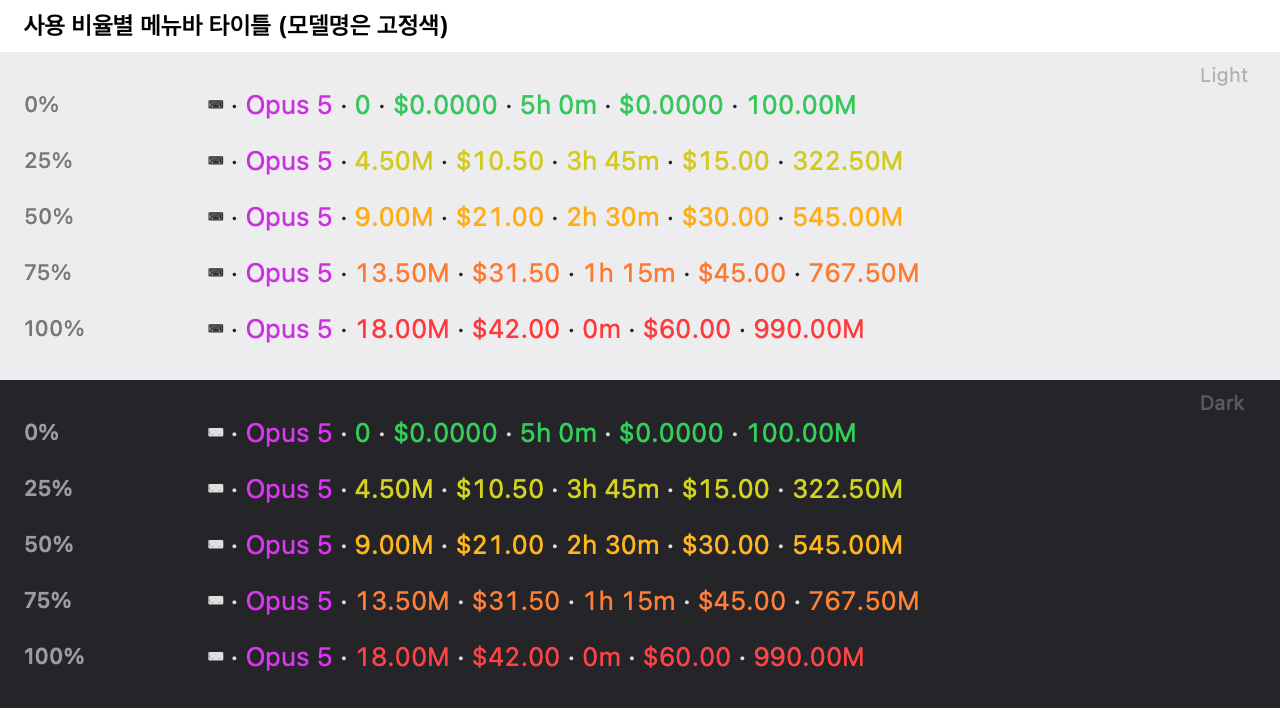
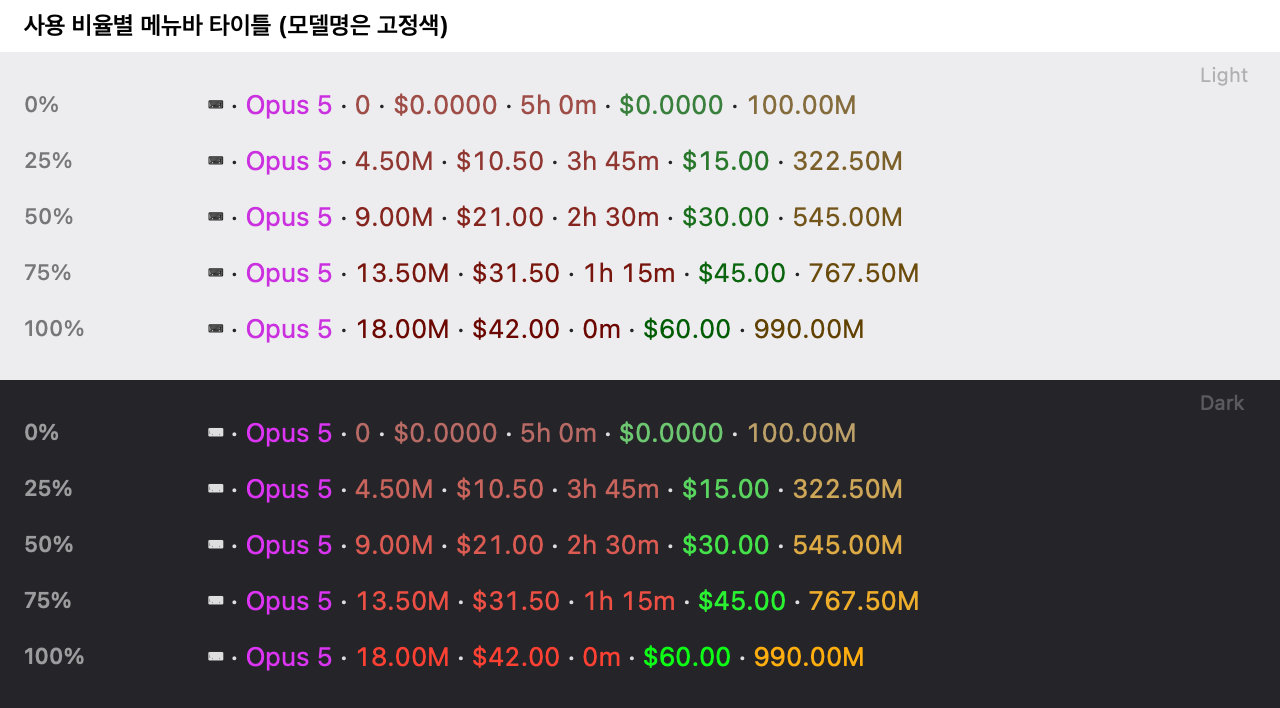
Give each kind of number its own color family (#15)
One green-to-red ramp served every field, so the color said only "how
full" and never "of what". Worse, it said the wrong thing twice: today's
tokens are measured against the personal best day and cumulative tokens
against the next milestone, so both turned alarm-red exactly when the
user set a record or approached a milestone.

Split the fields into three families by the question they answer, fix
the hue inside each family, and let the ratio move only saturation and
brightness:

- limit (block tokens / output tokens / cost / time remaining): red 4°.
  The four share one family because they share one ratio; different hues
  for the same number would be noise.
- today (today's tokens / cost): green 122°.
- cumulative (cumulative tokens): amber 40°.

The ramps are measured, not guessed. A self-test walks every family in
both appearances and asserts at least 3.5:1 against the menu bar
backgrounds (worst measured: 3.95:1). The old palette's systemYellow
fell to 1.4:1 on a light bar. Minimum saturation is pinned at 0.45 too,
below which all three families converge on the same grey-brown and the
split stops meaning anything.

Two constraints worth keeping:

- limit's dark ramp caps saturation at 0.80. Fully saturated red carries
  a luminance coefficient of 0.2126 and cannot clear 4:1 on a near-black
  bar, which is why macOS systemRed is (1.0, 0.27, 0.23) in dark mode.
- HSB is converted to sRGB by hand. NSColor(hue:) builds in the
[…]

diff --git a/ClaudeMonitor.swift b/ClaudeMonitor.swift
@@ -2326,38 +2326,96 @@ func titleIconPrefix() -> String { "\(titleIconGlyph) " }
 
 // MARK: - Title Dynamic Colors (수치/비율 → 색)
 
-// 정지점은 MoodTier 신호등 배색과 같은 system 색 — 무드 아이콘과 타이틀이 한 색 언어를 쓴다.
-let usageColorStops: [NSColor] = [.systemGreen, .systemYellow, .systemOrange, .systemRed]
+// 항목 계열 — 색상각은 값과 무관하게 **고정**이고, 비율은 채도·명도만 움직인다. 그래서 같은 항목은
+// 값이 얼마든 늘 같은 색으로 읽히고, 진해지는 정도만 "얼마나 찼나"를 말한다.
+//
+// 계열을 나누는 기준은 "이 숫자가 어떤 질문에 답하는가"다. 값이 높을수록 나쁜 것은 limit뿐이며,
+// today(개인 최고 대비)·cumulative(마일스톤 진행률)는 높은 값이 경고가 아니므로 빨강을 쓰지 않는다.
+enum TitleColorFamily: String, CaseIterable {
+    case limit, today, cumulative
 
-// 순수 함수: ratio가 떨어지는 정지점 구간(lower 인덱스)과 구간 내 보간 비율. NaN/무한대는 0으로 본다.
-func usageColorSegment(_ ratio: Double, stopCount: Int = usageColorStops.count) -> (index: Int, fraction: Double) {
-    let r = ratio.isFinite ? min(max(ratio, 0), 1) : 0
-    let segments = stopCount - 1
-    let pos = r * Double(segments)
-    let idx = min(Int(pos), segments - 1)
-    return (idx, pos - Double(idx))
-}
-
-// blended(withFraction:of:)는 호출 시점 외관으로 굳은 정적 색을 돌려주므로 dynamicProvider로 감싼다 —
-// 그러지 않으면 다크/라이트 전환 후 다음 refresh까지 반대 테마용 색이 남는다.
-func usageColor(ratio: Double) -> NSColor {
-    let seg = usageColorSegment(ratio)
-    let from = usageColorStops[seg.index], to = usageColorStops[seg.index + 1]
-    return NSColor(name: nil) { appearance in
-        var result = from
-        appearance.performAsCurrentDrawingAppearance {
-            if let a = from.usingColorSpace(.sRGB), let b = to.usingColorSpace(.sRGB),
-               let mixed = a.blended(withFraction: CGFloat(seg.fraction), of: b) {
-                result = mixed
-            }
+    // 모델 고정색(민트 173°~자홍 313°)과 겹치지 않는 따뜻한 대역에서만 고른다 — 셀프테스트가 간격을 지킨다.
+    var hue: CGFloat {
+        switch self {
+        case .limit:      return 4 / 360     // 빨강 — 한계에 얼마나 가까운가
+        case .cumulative: return 40 / 360    // 호박 — 다음 마일스톤까지
+        case .today:      return 122 / 360   // 초록 — 개인 최고 기록 대비
         }
-        return result
+    }
+
+    // 비율 0→1 구간의 (채도 시작·끝, 명도 시작·끝). 라이트 메뉴바는 배경이 밝아 진해질수록 명도를
+    // **낮춰야** 진해 보이고, 다크는 반대로 올려야 한다. 최저 채도를 0.45 아래로 내리지 않는 이유는
+    // 그보다 탁해지면 세 계열이 전부 회갈색으로 수렴해 "어느 항목인가"가 사라지기 때문이다.
+    //
+    // limit의 다크 채도 상한만 0.80이다 — 완전 채도 빨강은 휘도가 낮아 어두운 배경에서 읽히지 않으므로,
+    // 채도를 낮춰 초록·파랑 성분을 띄우는 쪽이 오히려 밝다(명도를 올려서는 해결되지 않는다).
+    func ramp(isDark: Bool) -> (s0: CGFloat, s1: CGFloat, b0: CGFloat, b1: CGFloat) {
+        switch (self, isDark) {
+        case (.limit, false):      return (0.55, 1.00, 0.62, 0.42)
+        case (.limit, true):       return (0.45, 0.80, 0.72, 1.00)
+        case (.cumulative, false): return (0.55, 1.00, 0.52, 0.38)
+        case (.cumulative, true):  return (0.45, 0.95, 0.74, 1.00)
+        case (.today, false):      return (0.55, 1.00, 0.50, 0.36)
+        case (.today, true):       return (0.45, 0.95, 0.78, 1.00)
+        }
     }
 }
 
-// 모델 family 고정색 — usageColorStops가 덮는 빨강~초록(색상각 0°~120°) 바깥에서만 고른다.
-// 그 범위 안의 색을 쓰면 모델명이 "사용량 경고"로 오독된다. 새 family는 MODEL_FAMILIES와 함께 여기에도 추가하고,
-// 기존 family와 색상각이 18° 이상 떨어져야 한다(셀프테스트 단정).
+// 순수 함수 — 동적 NSColor는 동등 비교가 안 되므로 성분을 돌려주는 이쪽을 테스트한다.
+// NaN/무한대는 0으로 본다(크래시·검정색 렌더 방지).
+func usageColorComponents(ratio: Double, family: TitleColorFamily, isDark: Bool)
+        -> (hue: CGFloat, saturation: CGFloat, brightness: CGFloat) {
+    let r = CGFloat(ratio.isFinite ? min(max(ratio, 0), 1) : 0)
+    let ramp = family.ramp(isDark: isDark)
+    return (family.hue,
+            ramp.s0 + (ramp.s1 - ramp.s0) * r,
+            ramp.b0 + (ramp.b1 - ramp.b0) * r)
+}
+
+// HSB → sRGB를 직접 계산한다. NSColor(hue:...)는 **보정(calibrated) 색공간**이라 같은 성분이라도
+// sRGB와 다른 픽셀이 나오고, 그러면 램프 상수를 고를 때 잰 명암비와 실제 화면이 어긋난다.
+func hsbToSRGB(hue: CGFloat, saturation: CGFloat, brightness: CGFloat) -> (r: CGFloat, g: CGFloat, b: CGFloat) {
+    let h = (hue - hue.rounded(.down)) * 6
+    let sector = Int(h)
+    let f = h - CGFloat(sector)
+    let p = brightness * (1 - saturation)
+    let q = brightness * (1 - saturation * f)
+    let t = brightness * (1 - saturation * (1 - f))
+    switch sector {
+    case 0:  return (brightness, t, p)
+    case 1:  return (q, brightness, p)
+    case 2:  return (p, brightness, t)
+    case 3:  return (p, q, brightness)
+    case 4:  return (t, p, brightness)
+    default: return (brightness, p, q)
+    }
+}
+
+// 외관마다 램프가 다르므로 dynamicProvider로 감싼다 — 그러지 않으면 다크/라이트 전환 후 다음
+// refresh까지 반대 테마용 색이 남는다.
+func usageColor(ratio: Double, family: TitleColorFamily) -> NSColor {
+    NSColor(name: nil) { appearance in
+        let isDark = appearance.bestMatch(from: [.aqua, .darkAqua]) == .darkAqua
+        let c = usageColorComponents(ratio: ratio, family: family, isDark: isDark)
+        let rgb = hsbToSRGB(hue: c.hue, saturation: c.saturation, brightness: c.brightness)
+        return NSColor(srgbRed: rgb.r, green: rgb.g, blue: rgb.b, alpha: 1)
+    }
+}
+
+// 필드 → 계열. 블록 토큰·출력 토큰·비용·남은 시간은 전부 "이 블록을 얼마나 썼나"라 한 계열이다 —
+// 같은 비율을 쓰는 숫자들에 서로 다른 색을 주면 정보가 아니라 소음이 된다. nil은 동적 색 대상이 아니라는 뜻.
+func titleFieldFamily(_ field: TitleField) -> TitleColorFamily? {
+    switch field {
+    case .outputTokens, .totalTokens, .cost, .remainingTime: return .limit
+    case .todayTokens, .todayCost:                           return .today
+    case .cumulativeTokens:                                  return .cumulative
+    case .model:                                             return nil
+    }
+}
+
+// 모델 family 고정색 — 값 계열(TitleColorFamily, 4°~122°) 바깥의 차가운 대역에서만 고른다.
+// 그 대역 안의 색을 쓰면 모델명이 사용량 수치로 오독된다. 새 family는 MODEL_FAMILIES와 함께 여기에도
+// 추가하고, 기존 family와 18° 이상·값 계열과 40° 이상 떨어져야 한다(셀프테스트 단정).
 func modelFamilyColor(_ family: String) -> NSColor? {
     switch family {
     case "opus":   return .systemPurple
@@ -2409,14 +2467,14 @@ func titleFieldRatio(_ field: TitleField, _ ctx: TitleContext) -> Double? {
 enum TitlePartColor: Equatable {
     case label
     case fixed(TitleFieldColor)
-    case usage(Double)
+    case usage(family: TitleColorFamily, ratio: Double)
     case model(family: String)
 
     var nsColor: NSColor {
         switch self {
         case .label:             return .labelColor
         case .fixed(let c):      return c.nsColor ?? .labelColor
-        case .usage(let r):      return usageColor(ratio: r)
+        case .usage(let f, let r): return usageColor(ratio: r, family: f)
         case .model(let family): return modelFamilyColor(family) ?? .labelColor
         }
     }
@@ -2433,7 +2491,9 @@ func buildTitleParts(_ ctx: TitleContext) -> [TitlePart] {
         parts.append(TitlePart(text: titleIconGlyph, color: .label))
     }
     for field in TitleSettings.enabledFieldsInOrder() {
-        let color: TitlePartColor = titleFieldRatio(field, ctx).map { .usage($0) } ?? .label
+        // 계열과 비율이 **둘 다** 있어야 동적 색이 된다 — 모델명(계열 없음)과 근거 없는 비율(nil)은 기본색.
+        let color: TitlePartColor = titleFieldFamily(field)
+            .flatMap { family in titleFieldRatio(field, ctx).map { .usage(family: family, ratio: $0) } } ?? .label
         switch field {
         case .outputTokens:     parts.append(TitlePart(text: formatTokens(ctx.outputTokens), color: color))
         case .totalTokens:      parts.append(TitlePart(text: formatTokens(ctx.totalTokens), color: color))
@@ -7047,36 +7107,82 @@ func runSelfTests() -> Never {
         check(false, "moodGlyphTheme: 전용 UserDefaults suite 생성 성공해야 함")
     }
 
-    // 동적 색상 — 보간 구간 산정
-    func segEq(_ r: Double, _ i: Int, _ f: Double) -> Bool {
-        let seg = usageColorSegment(r); return seg.index == i && abs(seg.fraction - f) < 1e-9
-    }
-    check(segEq(0, 0, 0), "usageColorSegment: 0 → 첫 정지점(초록)")
-    check(segEq(1, 2, 1), "usageColorSegment: 1 → 마지막 구간 끝(빨강)")
-    check(segEq(0.5, 1, 0.5), "usageColorSegment: 0.5 → 노랑~주황 구간 중간")
-    check(segEq(1.7, 2, 1) && segEq(-0.3, 0, 0), "usageColorSegment: 범위 밖 비율은 0~1로 자른다")
-    check(segEq(.nan, 0, 0) && segEq(.infinity, 0, 0), "usageColorSegment: NaN/무한대는 0으로 본다(크래시 방지)")
-    if let aqua = NSAppearance(named: .aqua) {
-        var ok = false
-        aqua.performAsCurrentDrawingAppearance {
-            if let a = usageColor(ratio: 0).usingColorSpace(.sRGB), let g = NSColor.systemGreen.usingColorSpace(.sRGB),
-               let z = usageColor(ratio: 1).usingColorSpace(.sRGB), let r = NSColor.systemRed.usingColorSpace(.sRGB) {
-                ok = abs(a.redComponent - g.redComponent) < 0.01 && abs(a.greenComponent - g.greenComponent) < 0.01
-                    && abs(z.redComponent - r.redComponent) < 0.01 && abs(z.greenComponent - r.greenComponent) < 0.01
-            }
+    // 동적 색상 — 계열 안에서 색상각은 고정, 채도·명도만 이동
+    for family in TitleColorFamily.allCases {
+        for isDark in [false, true] {
+            let lo = usageColorComponents(ratio: 0, family: family, isDark: isDark)
+            let mid = usageColorComponents(ratio: 0.5, family: family, isDark: isDark)
+            let hi = usageColorComponents(ratio: 1, family: family, isDark: isDark)
+            let mode = isDark ? "다크" : "라이트"
+            check(lo.hue == family.hue && mid.hue == family.hue && hi.hue == family.hue,
+                  "usageColorComponents: \(family.rawValue)/\(mode) 색상각은 비율과 무관하게 고정")
+            check(lo.saturation < hi.saturation,
+                  "usageColorComponents: \(family.rawValue)/\(mode) 비율이 오르면 채도가 오른다(탁함 → 선명)")
+            check(abs(mid.saturation - (lo.saturation + hi.saturation) / 2) < 1e-9,
+                  "usageColorComponents: \(family.rawValue)/\(mode) 채도는 선형 보간")
+            check(lo.saturation >= 0.45,
+                  "usageColorComponents: \(family.rawValue)/\(mode) 0%에서도 계열이 읽히는 최저 채도 유지")
+            // 라이트는 진해질수록 어두워야, 다크는 밝아야 "진해진다"로 읽힌다.
+            check(isDark ? (hi.brightness > lo.brightness) : (hi.brightness < lo.brightness),
+                  "usageColorComponents: \(family.rawValue)/\(mode) 명도 방향이 배경에 맞다")
         }
-        check(ok, "usageColor: 끝점은 systemGreen/systemRed로 해석된다")
+    }
+    check(usageColorComponents(ratio: 1.7, family: .limit, isDark: false).saturation
+          == usageColorComponents(ratio: 1, family: .limit, isDark: false).saturation,
+          "usageColorComponents: 범위 밖 비율은 0~1로 자른다")
+    check(usageColorComponents(ratio: .nan, family: .limit, isDark: false).saturation
+          == usageColorComponents(ratio: 0, family: .limit, isDark: false).saturation,
+          "usageColorComponents: NaN은 0으로 본다(크래시·검정 렌더 방지)")
+
+    // 명암비 — 배경값은 라이트/다크 메뉴바 실측 근사치다.
+    func srgbLuminance(_ rgb: (r: CGFloat, g: CGFloat, b: CGFloat)) -> CGFloat {
+        func lin(_ c: CGFloat) -> CGFloat { c <= 0.04045 ? c / 12.92 : pow((c + 0.055) / 1.055, 2.4) }
+        return 0.2126 * lin(rgb.r) + 0.7152 * lin(rgb.g) + 0.0722 * lin(rgb.b)
+    }
+    func contrastRatio(_ a: (r: CGFloat, g: CGFloat, b: CGFloat), _ b: (r: CGFloat, g: CGFloat, b: CGFloat)) -> CGFloat {
+        let la = srgbLuminance(a), lb = srgbLuminance(b)
+        return (max(la, lb) + 0.05) / (min(la, lb) + 0.05)
+    }
+    let lightBar: (r: CGFloat, g: CGFloat, b: CGFloat) = (0.925, 0.925, 0.937)
+    let darkBar: (r: CGFloat, g: CGFloat, b: CGFloat) = (0.137, 0.137, 0.157)
+    let contrastFloor: CGFloat = 3.5
+    for family in TitleColorFamily.allCases {
+        for isDark in [false, true] {
+            var worst: CGFloat = .greatestFiniteMagnitude
+            for step in 0...20 {
+                let c = usageColorComponents(ratio: Double(step) / 20, family: family, isDark: isDark)
+                let rgb = hsbToSRGB(hue: c.hue, saturation: c.saturation, brightness: c.brightness)
+                worst = min(worst, contrastRatio(rgb, isDark ? darkBar : lightBar))
+            }
+            check(worst >= contrastFloor,
+                  "명암비: \(family.rawValue)/\(isDark ? "다크" : "라이트") 전 구간 \(contrastFloor):1 이상 (실측 \(String(format: "%.2f", Double(worst))):1)")
+        }
     }
 
-    // 모델 고정색 — 모든 family에 색이 있고, 사용량 그라디언트(빨강~초록, 색상각 0°~120°)와 겹치지 않는다
+    // 필드 → 계열 배선. 같은 비율(blockRatio)을 쓰는 네 필드가 한 계열이어야 색이 갈리지 않는다.
+    check(titleFieldFamily(.totalTokens) == .limit && titleFieldFamily(.outputTokens) == .limit
+          && titleFieldFamily(.cost) == .limit && titleFieldFamily(.remainingTime) == .limit,
+          "titleFieldFamily: 블록 계열 네 필드는 모두 limit")
+    check(titleFieldFamily(.todayTokens) == .today && titleFieldFamily(.todayCost) == .today,
+          "titleFieldFamily: 오늘 두 필드는 today — 최고 기록 경신이 경고로 보이면 안 된다")
+    check(titleFieldFamily(.cumulativeTokens) == .cumulative, "titleFieldFamily: 누적 토큰은 cumulative")
+    check(titleFieldFamily(.model) == nil, "titleFieldFamily: 모델명은 동적 색 대상이 아니다")
+
+    // 계열끼리, 그리고 계열과 모델 고정색이 충분히 떨어져 있는지
+    let familyHueDegrees = TitleColorFamily.allCases.map { Double($0.hue) * 360 }.sorted()
+    let familyGap = zip(familyHueDegrees, familyHueDegrees.dropFirst()).map { $1 - $0 }.min() ?? 360
+    check(familyGap >= 30, "TitleColorFamily: 계열끼리 색상각 30° 이상 (최소 \(Int(familyGap))°)")
+
+    // 모델 고정색 — 모든 family에 색이 있고, 값 계열(4°~122°)과 겹치지 않는다
     var familyHues: [CGFloat] = []
     for family in MODEL_FAMILIES {
         guard let c = modelFamilyColor(family)?.usingColorSpace(.sRGB) else {
             check(false, "modelFamilyColor: \(family)에 고정색이 있어야 함"); continue
         }
         familyHues.append(c.hueComponent)
-        check(c.hueComponent > 0.40 && c.hueComponent < 0.90,
-              "modelFamilyColor: \(family) 색상각(\(Int(c.hueComponent * 360))°)이 사용량 그라디언트 범위 밖")
+        let gapToFamilies = familyHueDegrees.map { abs(Double(c.hueComponent) * 360 - $0) }.min() ?? 360
+        check(gapToFamilies >= 40,
+              "modelFamilyColor: \(family) 색상각(\(Int(c.hueComponent * 360))°)이 값 계열과 40° 이상 떨어짐 (실측 \(Int(gapToFamilies))°)")
     }
     let sortedHues = familyHues.sorted()
     let minHueGap = zip(sortedHues, sortedHues.dropFirst()).map { $1 - $0 }.min() ?? 1
@@ -7146,9 +7252,9 @@ func runSelfTests() -> Never {
     let dynCtx = TitleContext(outputTokens: 12_300, totalTokens: 50_000, cost: 4.2,
                               remainingText: nil, model: "claude-sonnet-4-5", blockRatio: 0.65)
     let dynParts = buildTitleParts(dynCtx)
-    check(dynParts.first(where: { $0.text == "$4.20" })?.color == .usage(0.65)
-          && dynParts.first(where: { $0.text == "12.3K" })?.color == .usage(0.65),
-          "buildTitleParts: 블록 계열 필드는 blockRatio로 동적 색")
+    check(dynParts.first(where: { $0.text == "$4.20" })?.color == .usage(family: .limit, ratio: 0.65)
+          && dynParts.first(where: { $0.text == "12.3K" })?.color == .usage(family: .limit, ratio: 0.65),
+          "buildTitleParts: 블록 계열 필드는 limit 계열 + blockRatio")
     check(dynParts.first(where: { $0.text == "Sonnet 4.5" })?.color == .model(family: "sonnet"),
           "buildTitleParts: 비율이 있어도 모델명은 고정색 유지")
     if let so = savedOrder { UserDefaults.standard.set(so, forKey: "titleFieldsOrder") }

diff --git a/CLAUDE.md b/CLAUDE.md
@@ -35,7 +35,16 @@ tail -f ~/.cc-menutor.log   # LaunchAgent 실행 시 stdout/stderr 로그
 - **새 모델 추가 시**: `VERSIONED_PRICING`에 `ModelVersionKey(family:major:minor:)` 항목을 추가하면 비용과 표시명(`shortModelName()`)이 **함께** 따라온다 — 둘 다 `parseModelVersion()` 결과를 공유하기 때문이다. 새 family(예: 미래의 `fable` 계열)라면 `MODEL_FAMILIES`와 `FAMILY_PRICING`, 그리고 메뉴바 모델명 고정색 `modelFamilyColor()`에도 추가한다(셀프테스트가 `MODEL_FAMILIES` 전부에 색이 있는지 단정한다). 캐시 단가는 input에서 공식 배수로 파생되므로 input/output만 넣으면 된다.
   - **순서 의존이 없다**(딕셔너리 조회). 예전엔 `[(pattern, pricing)]` 배열을 `contains`로 훑어서 "구체적인 패턴을 앞에" 규칙을 지켜야 했는데, 실제 모델 ID가 신형(`claude-haiku-4-5`)과 구형(`claude-3-5-haiku`) 두 표기를 오간다는 걸 놓쳐 `haiku-3-5`/`sonnet-3-5`/`sonnet-3-7` 패턴이 **어디에도 매칭되지 않는 죽은 코드**가 됐고, 모든 Haiku가 포괄 패턴으로 떨어져 Haiku 4.5가 4배 과소 청구됐다(게다가 `matched=true`라 경고도 안 떴다). `FAMILY_PRICING`이 은퇴 티어를 가리켜 Opus 5는 3배 과대 추정됐다. **family 폴백은 반드시 현행 티어를 가리켜야 한다.**
   - 회귀 가드: 셀프테스트의 `officialPrices` 표가 실제 모델 ID → 공식 단가를 직접 대조한다. 단가를 바꿀 땐 이 표도 같이 고친다.
-- **메뉴바 동적 색상(`titleFieldRatio`/`usageColor`/`modelFamilyColor`)**: 항목 색은 사용자 설정이 아니라 `titleFieldRatio(field, ctx)`가 고른 비율(0~1)로 정해진다(수동 색 지정 기능과 `titleColor_*` 키는 이 기능으로 대체돼 제거됐다). 블록 계열 필드의 비율은 **`blockUsageRatio()` 하나**(서버 5h% ▸ 예산 비율 ▸ 경과율)를 두 타이틀 경로가 공유한다 — 리셋 앵커에서 겪은 "경로별로 따로 계산하다 어긋남"을 반복하지 않기 위함이다. `TitlePart.color`는 `NSColor`가 아니라 **출처(`TitlePartColor.usage(ratio)`/`.model(family:)`)**를 담고 렌더링 시점에만 해석한다 — 동적 `NSColor`는 동등 비교가 안 돼 테스트할 수 없고, 보간 결과는 `dynamicProvider`로 감싸야 다크/라이트 전환 직후에도 맞는 색이 나온다. 모델 고정색은 그라디언트(색상각 0°~120°) 밖에서 서로 18° 이상 떨어져야 하며 셀프테스트가 이를 단정한다. 예산 경고(`renderTitle`의 ⚠ 오버레이)는 여전히 동적 색보다 우선한다.
+- **메뉴바 동적 색상(`TitleColorFamily`/`titleFieldRatio`/`usageColor`)**: 항목 색은 사용자 설정이 아니라 **계열(색상각) + 비율(채도·명도)**로 정해진다(수동 색 지정 기능과 `titleColor_*` 키는 이 기능으로 대체돼 제거됐다). **색상각은 계열 안에서 고정이고 비율은 채도·명도만 움직인다** — 값이 변해도 "어느 항목인가"가 흔들리지 않게 하기 위해서다.
+  - **계열은 "이 숫자가 어떤 질문에 답하는가"로 나눈다**: `limit`(블록 토큰·출력·비용·남은 시간, 빨강 4°), `today`(오늘 토큰·비용, 초록 122°), `cumulative`(누적 토큰, 호박 40°). 처음엔 전 항목이 초록→빨강 신호등 하나를 공유했는데, 그러면 **최고 기록을 세운 날의 「오늘 비용」과 마일스톤 직전의 「누적 토큰」이 빨강(위험)으로 렌더돼** 좋은 일이 경고로 보였다. 높을수록 나쁜 값은 `limit`뿐이다.
+  - 블록 계열 네 필드가 한 계열인 것은 **넷이 같은 비율(`blockRatio`)을 쓰기 때문**이다. 같은 숫자에 서로 다른 색을 주면 정보가 아니라 소음이 된다.
+  - **램프 상수는 감으로 고른 값이 아니라 명암비를 재서 고른 값이다.** 셀프테스트가 라이트(#ECECEC)·다크(#1E1E1E) 메뉴바 배경 대비 **전 구간 3.5:1 이상**을 단정한다(실측 최저 3.95:1). 예전 팔레트의 `systemYellow`는 라이트에서 1.4:1까지 떨어져 사실상 안 보였다. 최저 채도를 0.45 아래로 내리지 않는 것도 단정으로 고정돼 있다 — 그보다 탁해지면 세 계열이 전부 회갈색으로 수렴해 계열 구분이 사라진다.
+  - **`limit`의 다크 채도 상한만 0.80으로 낮다.** 완전 채도 빨강은 휘도 계수가 0.2126뿐이라 어두운 배경에서 명암비가 4:1을 못 넘는다 — macOS `systemRed` 다크가 순수 빨강이 아니라 `(1.0, 0.27, 0.23)`인 것과 같은 이유다. 채도를 낮춰 초록·파랑 성분을 띄워야 오히려 읽힌다.
+  - **HSB → RGB 변환을 직접 한다(`hsbToSRGB`).** `NSColor(hue:...)`는 보정(calibrated) 색공간이라 같은 성분이라도 sRGB와 다른 픽셀이 나오고, 그러면 램프를 고를 때 잰 명암비와 실제 화면이 어긋난다.
+  - `TitlePart.color`는 `NSColor`가 아니라 **출처(`TitlePartColor.usage(family:ratio:)`/`.model(family:)`)**를 담고 렌더링 시점에만 해석한다 — 동적 `NSColor`는 동등 비교가 안 돼 테스트할 수 없고, 보간 결과는 `dynamicProvider`로 감싸야 다크/라이트 전환 직후에도 맞는 색이 나온다. 그래서 순수 함수 `usageColorComponents(ratio:family:isDark:)`가 테스트 대상이다.
+  - 모델 고정색은 값 계열(4°~122°) 바깥의 차가운 대역에서 고르며, 값 계열과 40° 이상·모델끼리 18° 이상 떨어져야 한다(셀프테스트 단정).
+  - 예산 경고(`renderTitle`의 ⚠ 오버레이)는 여전히 동적 색보다 우선한다. **무드 아이콘(`flameColors`)은 아직 5단계 신호등 배색이라 블록 숫자와 색 언어가 다르다** — 의도적으로 남겨 둔 상태이며 이슈 #14에서 다룬다.
+
 - `PRICING`/비용은 **추정값**이며 Pro/Max 플랜의 실제 청구액이 아니다. 비용 로직을 바꿔도 이 전제를 유지한다.
 - **비용 소스는 2경로다**: 1차는 `stats-cache.json`(CLI 실측 `costUSD`), 폴백은 JSONL+`PRICING`(추정). 두 숫자는 분기할 수 있으며, 폴백 진입 시 메뉴 상단에 "추정 모드" 헤더로 사용자에게 고지한다(`buildMenuFromEntries`). 단가 로직 수정은 폴백에만 영향, 1차 경로는 CLI가 계산한다.
 - **타이틀의 "현재 모델"은 "최근 사용 모델"이 아니라 "(현재 5시간 블록 내) 토큰 수 기준 최다 사용 모델"이다**: stats-cache의 `models` 배열 순서는 신뢰하지 않는다(CLI가 모델을 처음 발견한 순서일 뿐 사용량 순이 아니다). 순수 함수 `mostUsedModel(in:)`이 블록 구간 엔트리를 **원본** 모델 문자열 기준으로 그룹핑해 토큰 합(input+output+cacheRead+cacheWrite)이 가장 큰 모델을 고르며, 동점이면 모델 문자열 알파벳순으로 결정론적으로 선택한다. `updateStatusBarTitle(fromCache:)`/`updateStatusBarTitleFromEntries()` 둘 다 이 함수를 공유한다. 전자는 `cachedAll`(JSONL)을 블록 구간(`b.startTime`~`b.endTime`)으로 필터링해 넘기고, 타임스탬프 파싱 실패 등 예외 상황에서만 `b.models.last`로 폴백한다. `mostUsedModel()`은 (`UsageStats.modelBreakdown`과 달리) `shortModelName()`으로 미리 축약하지 않은 원본 문자열을 반환하므로, `TitleContext.model`의 "축약 전 원본 문자열" 계약이 유지되고 `shortModelName()` 적용은 항상 렌더링 시점(`buildTitleParts()`) 한 번으로 끝난다(이중 축약 방지).

diff --git a/README.md b/README.md
@@ -46,7 +46,7 @@ curl -fsSL https://raw.githubusercontent.com/Ahngbeom/cc-menutor/main/scripts/in
 - **한도 소진 추이** — 서버 실측 사용률을 주 단위로 적립해 플랜 업/다운그레이드 판단 근거를 제공([아래](#한도-소진-추이) 참고)
 - **전체 누적** — 기록된 전체 사용량
 - **30초 자동 갱신** — 백그라운드 처리, 파일 변경 시에만 재읽기
-- **메뉴바 동적 색상** — 각 항목의 색이 사용 비율에 따라 초록→노랑→주황→빨강으로 자동 전환, 모델명은 모델별 고정색([아래](#메뉴바-동적-색상) 참고)
+- **메뉴바 동적 색상** — 항목 계열별(한계·오늘·누적) 색상 안에서 사용 비율만큼 색이 짙어짐, 모델명은 모델별 고정색([아래](#메뉴바-동적-색상) 참고)
 - **메뉴바 커스터마이징** — 표시 항목·순서·구분자·아이콘·자동 갱신 주기·표시 통화를 메뉴에서 바로 변경(재빌드 불필요, [커스터마이징](#커스터마이징) 참고)
 - **원화 환산** — 표시 통화를 「원화」로 바꾸면 실시간 환율로 환산한 금액을 표시([표시 통화](#표시-통화-원화-환산) 참고)
 - **재미 모드(옵트인, 기본 전부 꺼짐)** — 무드 아이콘 / 연속 사용 기록 / 마일스톤 축하, [아래](#재미-모드) 참고
@@ -354,15 +354,18 @@ tail -f ~/.cc-menutor.log
 
 ### 메뉴바 동적 색상
 
-메뉴바의 각 항목은 직접 고른 색 대신 **수치가 얼마나 찼는지**에 따라 색이 연속으로 바뀝니다
-(0% 초록 → 노랑 → 주황 → 100% 빨강). 항목마다 "얼마나 찼는지"의 기준은 다릅니다:
+메뉴바의 각 항목은 직접 고른 색 대신 **수치가 얼마나 찼는지**에 따라 색이 바뀝니다.
+항목은 **무엇을 묻는 숫자인지**에 따라 세 계열로 나뉘고, 계열 안에서는 색상이 고정된 채
+**탁함 → 선명**으로만 짙어집니다. 그래서 같은 항목은 값이 얼마든 늘 같은 색으로 읽힙니다.
 
-| 항목 | 기준 |
-|---|---|
-| 블록 토큰 · 블록 출력 토큰 · 블록 비용 | 서버 실측 5시간 사용률(statusLine 연동 시) → 예산 대비 비율(`CLAUDE_MONITOR_TOKEN_BUDGET`/`COST_BUDGET` 설정 시) → 5시간 블록 경과율 |
-| 남은 시간 | 5시간 블록 경과율 |
-| 오늘 토큰 · 오늘 비용 | 개인 최고 일일 기록 대비 (기록이 없으면 기본색) |
-| 누적 토큰 | 다음 마일스톤(1M·10M·100M·1B, 이후 ×10)까지 진행률 |
+| 계열 | 항목 | 비율 기준 |
+|---|---|---|
+| 🔴 빨강 | 블록 토큰 · 블록 출력 토큰 · 블록 비용 · 남은 시간 | 서버 실측 5시간 사용률(statusLine 연동 시) → 예산 대비 비율(`CLAUDE_MONITOR_TOKEN_BUDGET`/`COST_BUDGET` 설정 시) → 5시간 블록 경과율 |
+| 🟢 초록 | 오늘 토큰 · 오늘 비용 | 개인 최고 일일 기록 대비 (기록이 없으면 기본색) |
+| 🟡 호박 | 누적 토큰 | 다음 마일스톤(1M·10M·100M·1B, 이후 ×10)까지 진행률 |
+
+빨강 계열만 "한계에 가까워진다"는 뜻입니다. **오늘과 누적은 값이 높다고 나쁜 것이 아니라서**
+(최고 기록 경신, 마일스톤 도달) 경고로 읽히지 않는 계열을 씁니다.
 
 <img src="docs/images/dynamic-color-steps.png" alt="사용 비율 0·25·50·75·100%에서의 메뉴바 타이틀 색 (라이트/다크)" width="640">
 
@@ -372,6 +375,9 @@ Opus 보라, Sonnet 파랑, Haiku 민트, Fable 남색, Mythos 자홍.
 <img src="docs/images/model-colors.png" alt="모델 family별 고정색 (라이트/다크)" width="640">
 
 <sub>위 두 이미지는 앱 코드로 렌더링한 예시이며 값은 가상입니다.</sub>
+
+색은 라이트/다크 메뉴바 각각에서 **명암비 3.5:1 이상**이 되도록 잡았고, 셀프테스트가 전 구간을
+검사합니다. 밝은 메뉴바에서 노란색이 흐려 보이던 문제를 구조적으로 막는 자리입니다.
 
 예산 경고(⚠%)가 뜨면 기존처럼 타이틀 전체가 주황/빨강으로 덮입니다.
 
